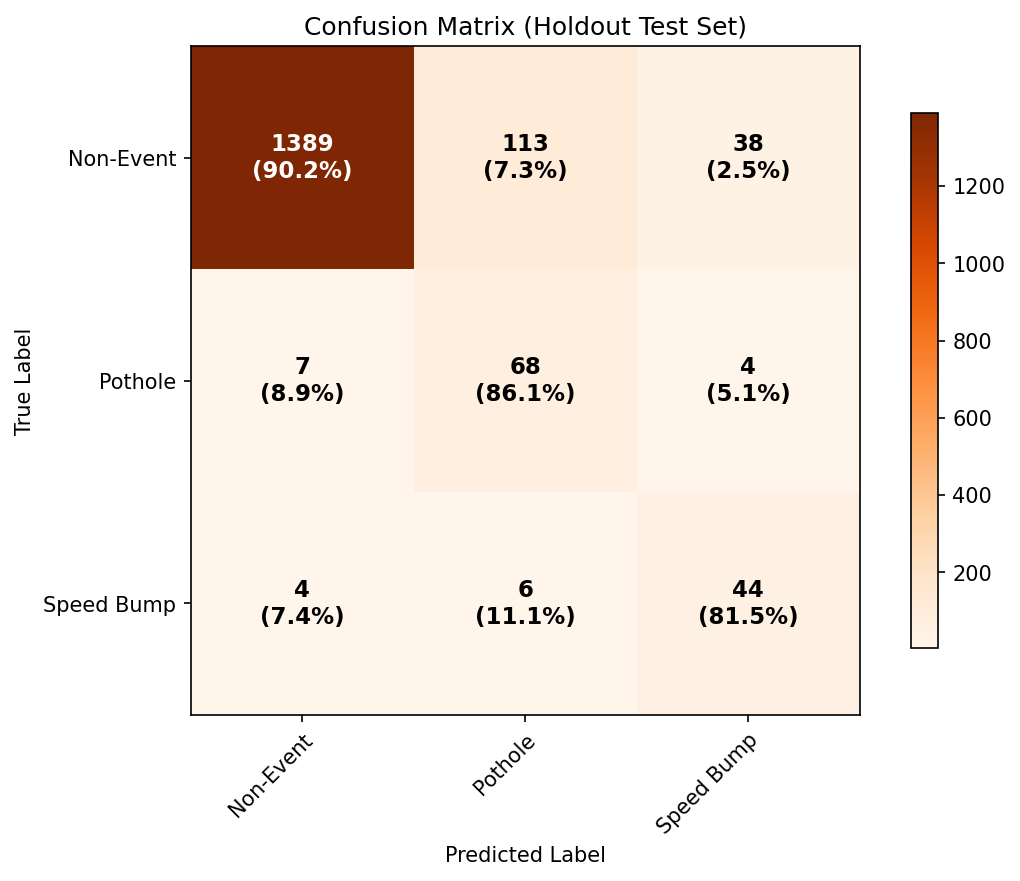
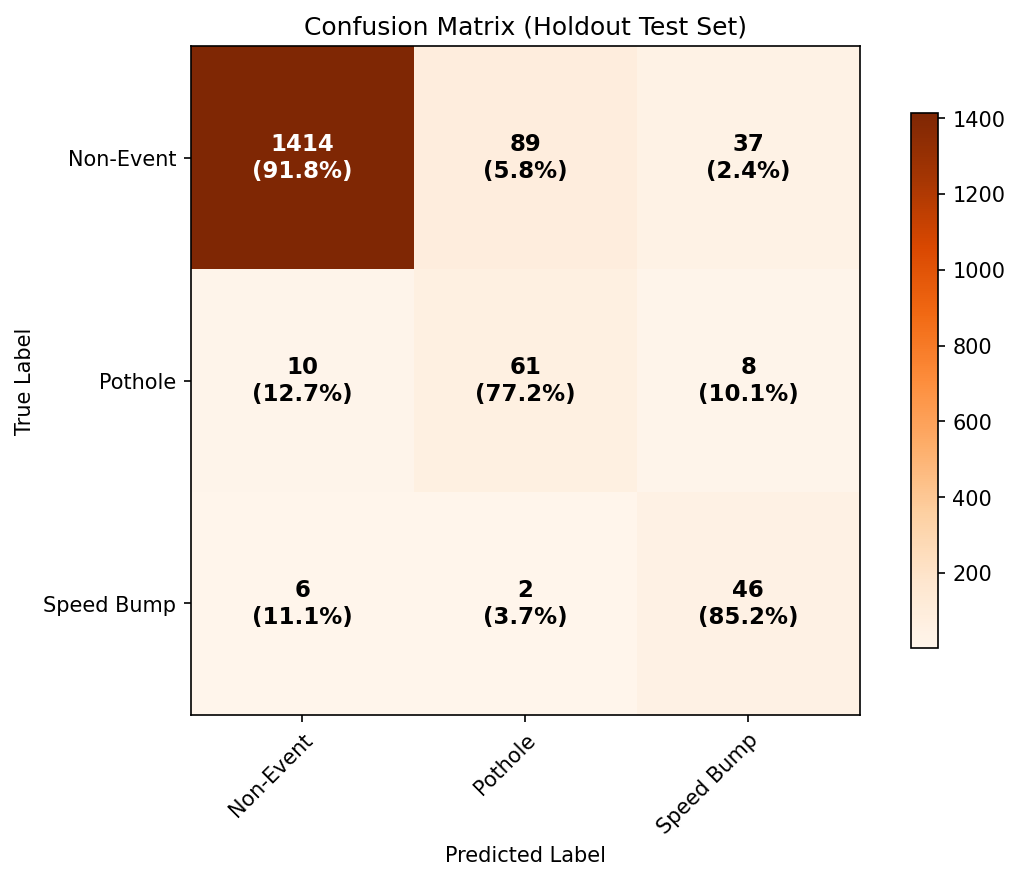
feat: update cnn model, data pipeline, and loss
Replace the existing Lightweight1DCNN model with InceptionTime1D architecture. Update input channel count from 14 to 18 to match the expanded feature set. Overhaul sequence processing to use extended sequence length and random cropping for data augmentation. Refactor the loss function to MultiLabelFocalLoss with BCEWithLogitsLoss and one-hot encoded targets. Update all supporting scripts and model initializations across the codebase.

diff --git a/src/cnn_model/train.py b/src/cnn_model/train.py
@@ -74,16 +74,17 @@ class DynamicJitterDataset(torch.utils.data.Dataset):
             is_majority = (y_val == self.non_event_idx)
             aug_multiplier = 0.05 if is_majority else 1.0
             
-            # 1. Temporal Jitter (shift entire signal)
-            if self.max_jitter > 0 and np.random.rand() < aug_multiplier:
-                shift = np.random.randint(-self.max_jitter, self.max_jitter + 1)
-                if shift != 0:
-                    x = torch.roll(x, shifts=shift, dims=-1)
-                    # Avoid wrap-around artifact by filling with boundary values
-                    if shift > 0:
-                        x[..., :shift] = x[..., shift:shift+1]
-                    else:
-                        x[..., shift:] = x[..., shift-1:shift]
+            # 1. Random Crop (Replaces padding-based temporal jitter)
+            # The input sequence is EXTENDED_SEQ_LEN (e.g. 230). We need to crop it down to SEQ_LEN (e.g. 200).
+            seq_len = 200
+            if x.shape[-1] > seq_len:
+                max_start_idx = x.shape[-1] - seq_len
+                start_idx = np.random.randint(0, max_start_idx + 1) if self.max_jitter > 0 and np.random.rand() < aug_multiplier else max_start_idx // 2
+                x = x[..., start_idx:start_idx + seq_len]
+            elif x.shape[-1] == seq_len:
+                pass
+            else:
+                raise ValueError(f"Input sequence length {x.shape[-1]} is shorter than target length {seq_len}")
             
             # 2. Time Warping (non-linear temporal deformation)
             # Simulates variable vehicle speed by warping the time axis
@@ -133,6 +134,13 @@ class DynamicJitterDataset(torch.utils.data.Dataset):
                 drop_idx = np.random.randint(0, n_channels)
                 x[drop_idx, :] = 0.0
                 
+        else:
+            # During evaluation, strictly use center crop
+            seq_len = 200
+            if x.shape[-1] > seq_len:
+                start_idx = (x.shape[-1] - seq_len) // 2
+                x = x[..., start_idx:start_idx + seq_len]
+                
         return x, y_val
 
 def set_seed(seed=42):
@@ -145,20 +153,17 @@ def set_seed(seed=42):
         torch.backends.cudnn.deterministic = True
         torch.backends.cudnn.benchmark = False
 
-class FocalLoss(nn.Module):
+class MultiLabelFocalLoss(nn.Module):
     def __init__(self, weight=None, gamma=2.0, reduction='mean'):
-        super(FocalLoss, self).__init__()
+        super(MultiLabelFocalLoss, self).__init__()
         self.weight = weight
         self.gamma = gamma
         self.reduction = reduction
 
     def forward(self, inputs, targets):
-        ce_loss = nn.functional.cross_entropy(inputs, targets, reduction='none')
-        pt = torch.exp(-ce_loss)  # p_t = probability of correct class
-        focal_loss = ((1 - pt) ** self.gamma) * ce_loss
-
-        if self.weight is not None:
-            focal_loss = self.weight[targets] * focal_loss
+        bce_loss = nn.functional.binary_cross_entropy_with_logits(inputs, targets, reduction='none', pos_weight=self.weight)
+        pt = torch.exp(-bce_loss)  # probability of correct prediction
+        focal_loss = ((1 - pt) ** self.gamma) * bce_loss
 
         if self.reduction == 'mean':
             return focal_loss.mean()
@@ -302,27 +307,29 @@ def main():
         
         # ─── SMOTE Oversampling (Disabled for Experiment) ───
         X_train_np, y_train_np = X[train_idx], y[train_idx]
-        X_train_smote, y_train_smote = X_train_np, y_train_np
         
         if fold == 0:
             scaler_params = {
-                "means": [0.0] * 18,
-                "stds": [1.0] * 18
+                "means": [0.0] * X_train_np.shape[1],
+                "stds": [1.0] * X_train_np.shape[1]
             }
             scaler_path = os.path.join(MODEL_DIR, "scaler_params.json")
             with open(scaler_path, "w") as f:
                 json.dump(scaler_params, f, indent=4)
             logger.info(f"Saved dummy scaler parameters to {scaler_path}")
             
-        X_train_scaled = scale_instance_level(X_train_smote)
+        X_train_scaled = scale_instance_level(X_train_np)
         # Apply the SAME training means and stds to validation data
         X_val_np = X[val_idx]
         X_val_scaled = scale_instance_level(X_val_np)
         
         X_train = torch.tensor(X_train_scaled, dtype=torch.float32)
-        y_train = torch.tensor(y_train_smote, dtype=torch.long)
+        y_train = torch.tensor(y_train_np, dtype=torch.long)
+        y_train_one_hot = torch.nn.functional.one_hot(y_train, num_classes=len(classes)).float()
+        
         X_val = torch.tensor(X_val_scaled, dtype=torch.float32)
         y_val = torch.tensor(y[val_idx], dtype=torch.long)
+        y_val_one_hot = torch.nn.functional.one_hot(y_val, num_classes=len(classes)).float()
         
         # ─── Stratified Batch Loader ───
         train_dataset = DynamicJitterDataset(X_train, y_train, max_jitter=15,
@@ -333,16 +340,14 @@ def main():
         train_loader = DataLoader(train_dataset, batch_size=BATCH_SIZE, shuffle=True)
         val_loader = DataLoader(val_dataset, batch_size=BATCH_SIZE, shuffle=False)
         
-        # Dampened Class Weights (sqrt)
-        # Gunakan sqrt(balanced_weights) pada data hasil SMOTE untuk mencegah double-compensation
-        class_weights = compute_class_weight('balanced', classes=np.unique(y_train_smote), y=y_train_smote)
-        # class_weights = np.sqrt(class_weights)  # Dihapus karena SMOTE tidak digunakan
-        class_weights = class_weights / class_weights.sum() * len(class_weights)  # Re-normalize
+        # Dampened Class Weights
+        class_weights = compute_class_weight('balanced', classes=np.unique(y_train_np), y=y_train_np)
+        class_weights = class_weights / class_weights.sum() * len(class_weights)
         class_weights = torch.tensor(class_weights, dtype=torch.float32).to(device)
         
-        model = InceptionTime1D(in_channels=18, num_classes=len(classes),
+        model = InceptionTime1D(in_channels=X_train.shape[1], num_classes=len(classes),
                                num_blocks=2, channels=64, bottleneck_channels=16, dropout_rate=0.2).to(device)
-        criterion = FocalLoss(weight=class_weights, gamma=2.0)
+        criterion = MultiLabelFocalLoss(weight=class_weights, gamma=2.0)
         optimizer = torch.optim.Adam(model.parameters(), lr=LR, weight_decay=1e-4)
         scheduler = torch.optim.lr_scheduler.CosineAnnealingLR(optimizer, T_max=EPOCHS, eta_min=1e-6)
         
@@ -359,7 +364,11 @@ def main():
                 
                 optimizer.zero_grad()
                 outputs = model(batch_x)
-                loss = criterion(outputs, batch_y)
+                
+                # Gunakan versi one-hot untuk MultiLabelFocalLoss
+                batch_y_one_hot = torch.nn.functional.one_hot(batch_y, num_classes=len(classes)).float()
+                loss = criterion(outputs, batch_y_one_hot)
+                
                 loss.backward()
                 torch.nn.utils.clip_grad_norm_(model.parameters(), max_norm=1.0)
                 optimizer.step()
@@ -380,11 +389,15 @@ def main():
                 for batch_x, batch_y in val_loader:
                     batch_x, batch_y = batch_x.to(device), batch_y.to(device)
                     outputs = model(batch_x)
-                    loss = criterion(outputs, batch_y)
+                    
+                    batch_y_one_hot = torch.nn.functional.one_hot(batch_y, num_classes=len(classes)).float()
+                    loss = criterion(outputs, batch_y_one_hot)
+                    
                     val_loss += loss.item() * batch_x.size(0)
                     
-                    probs = torch.softmax(outputs, dim=1)
-                    _, preds = torch.max(probs, 1)
+                    # Gunakan Sigmoid untuk Multi-label
+                    probs = torch.sigmoid(outputs)
+                    _, preds = torch.max(probs, 1) # Default evaluation argmax
                     
                     val_preds.extend(preds.cpu().numpy())
                     val_probas.extend(probs.cpu().numpy())
@@ -439,7 +452,7 @@ def main():
             for batch_x, batch_y in val_loader:
                 batch_x = batch_x.to(device)
                 outputs = model(batch_x)
-                probs = torch.softmax(outputs, dim=1)
+                probs = torch.sigmoid(outputs)
                 _, preds = torch.max(probs, 1)
                 all_probas.extend(probs.cpu().numpy())
                 all_preds.extend(preds.cpu().numpy())
@@ -596,36 +609,37 @@ def main():
     np.save(os.path.join(MODEL_DIR, "cnn_1d_oof_y_proba.npy"), oof_y_proba)
     logger.info("OOF predictions disimpan untuk analisis ulang.")
     
-    # --- Train Final Model (SMOTE Disabled for Experiment) ---
-    X_full_smote, y_full_smote = X, y
+    # --- Train Final Model ---
+    X_full, y_full = X, y
     
-    # ─── Fit and Save Final Scaler (Dummy for Instance Scaling) ───
+    # ─── Fit and Save Final Scaler (Dynamic Length) ───
     final_scaler_params = {
-        "means": [0.0] * 14,
-        "stds": [1.0] * 14
+        "means": [0.0] * X_full.shape[1],
+        "stds": [1.0] * X_full.shape[1]
     }
     scaler_path = os.path.join(MODEL_DIR, "cnn_1d_scaler_params.json")
     with open(scaler_path, "w") as f:
         json.dump(final_scaler_params, f, indent=4)
     logger.info(f"Saved dummy final scaler parameters to {scaler_path}")
     
-    X_full_scaled = scale_instance_level(X_full_smote)
-    logger.info(f"Melatih final model dengan seluruh dataset (SMOTE & Scaled) sebanyak {optimal_epochs} epoch...")
+    X_full_scaled = scale_instance_level(X_full)
+    X_full_tensor = torch.tensor(X_full_scaled, dtype=torch.float32)
+    y_full_tensor = torch.tensor(y_full, dtype=torch.long)
     
-    X_full = torch.tensor(X_full_scaled, dtype=torch.float32)
-    y_full = torch.tensor(y_full_smote, dtype=torch.long)
-    full_dataset = DynamicJitterDataset(X_full, y_full, max_jitter=15,
+    logger.info(f"Melatih final model dengan seluruh dataset sebanyak {optimal_epochs} epoch...")
+    
+    full_dataset = DynamicJitterDataset(X_full_tensor, y_full_tensor, max_jitter=15,
                                          noise_std=0.02, scale_range=(0.85, 1.15), is_train=True, non_event_idx=non_event_idx)
     full_loader = DataLoader(full_dataset, batch_size=BATCH_SIZE, shuffle=True)
     
-    class_weights_full = compute_class_weight('balanced', classes=np.unique(y_full_smote), y=y_full_smote)
+    class_weights_full = compute_class_weight('balanced', classes=np.unique(y_full), y=y_full)
     # class_weights_full = np.sqrt(class_weights_full)  # Dihapus agar konsisten dengan cross-validation
     class_weights_full = class_weights_full / class_weights_full.sum() * len(class_weights_full)
     class_weights_full = torch.tensor(class_weights_full, dtype=torch.float32).to(device)
     
-    final_model = InceptionTime1D(in_channels=18, num_classes=len(classes),
+    final_model = InceptionTime1D(in_channels=X_full.shape[1], num_classes=len(classes),
                                  num_blocks=2, channels=64, bottleneck_channels=16, dropout_rate=0.2).to(device)
-    criterion_full = FocalLoss(weight=class_weights_full, gamma=2.0)
+    criterion_full = MultiLabelFocalLoss(weight=class_weights_full, gamma=2.0)
     optimizer_full = torch.optim.Adam(final_model.parameters(), lr=LR, weight_decay=1e-4)
     scheduler_full = torch.optim.lr_scheduler.CosineAnnealingLR(optimizer_full, T_max=optimal_epochs, eta_min=1e-6)
     
@@ -635,7 +649,10 @@ def main():
             batch_x, batch_y = batch_x.to(device), batch_y.to(device)
             optimizer_full.zero_grad()
             outputs = final_model(batch_x)
-            loss = criterion_full(outputs, batch_y)
+            
+            batch_y_one_hot = torch.nn.functional.one_hot(batch_y, num_classes=len(classes)).float()
+            loss = criterion_full(outputs, batch_y_one_hot)
+            
             loss.backward()
             torch.nn.utils.clip_grad_norm_(final_model.parameters(), max_norm=1.0)
             optimizer_full.step()
@@ -669,7 +686,7 @@ def main():
         for batch_x, batch_y in test_loader:
             batch_x = batch_x.to(device)
             outputs = final_model(batch_x)
-            probs = torch.softmax(outputs, dim=1)
+            probs = torch.sigmoid(outputs)
             test_probas.extend(probs.cpu().numpy())
             test_trues.extend(batch_y.numpy())
             
@@ -744,11 +761,11 @@ def main():
     # ─── ONNX EXPORT ───
     logger.info("Exporting final PyTorch model to ONNX format...")
     onnx_path = os.path.join(MODEL_DIR, "cnn_1d_model.onnx")
-    dummy_input = torch.randn(1, 18, 200, requires_grad=True).to(device)
-    model.eval()
+    dummy_input = torch.randn(1, X_full.shape[1], 200, requires_grad=True).to(device)
+    final_model.eval()
     try:
         torch.onnx.export(
-            model,
+            final_model,
             dummy_input,
             onnx_path,
             export_params=True,

diff --git a/src/dataset/build_cnn_data.py b/src/dataset/build_cnn_data.py
@@ -22,7 +22,9 @@ GT_PATH      = os.path.join(OUT_FOLDER, "ground_truth_labels.csv")
 EVENTS_PATH  = os.path.join(OUT_FOLDER, "candidates_events.csv")
 
 BACKGROUND_RATIO = 2 
+MAX_JITTER_SAMPLES = 15
 SEQ_LEN = int(WINDOW_SIZE_S * TARGET_HZ)  # 2.0 * 100 = 200
+EXTENDED_SEQ_LEN = SEQ_LEN + 2 * MAX_JITTER_SAMPLES # 230
 CHANNELS = [
     "a_vertical", "a_horizontal", "speed", 
     "a_vertical_crest_factor", "a_vertical_jerk",
@@ -135,36 +137,32 @@ def get_csv_path_for_trip(trip_id):
 
 def extract_sequence(raw_df, t_center):
     """
-    Memotong array (SEQ_LEN, 3) yang berpusat pada t_center.
-    Menggunakan interpolasi nearest jika sample tidak tepat 200.
+    Memotong array (EXTENDED_SEQ_LEN, C) yang berpusat pada t_center.
+    Menggunakan interpolasi nearest jika sample tidak tepat EXTENDED_SEQ_LEN.
     """
     times = raw_df["timestamp"].astype(float).values / 1000.0
     
     # Toleransi untuk mencari nearest indices
-    idx_start = np.searchsorted(times, t_center - (WINDOW_SIZE_S / 2.0))
-    idx_end = np.searchsorted(times, t_center + (WINDOW_SIZE_S / 2.0))
+    window_s = EXTENDED_SEQ_LEN / TARGET_HZ
+    idx_start = np.searchsorted(times, t_center - (window_s / 2.0))
+    idx_end = np.searchsorted(times, t_center + (window_s / 2.0))
     
     seg = raw_df.iloc[idx_start:idx_end]
     
-    # Jika kurang dari 200, pad atau ambil yang terdekat agar pas 200.
-    # Secara praktek, karena sudah di-resample 100Hz, biasanya ukurannya sekitar 200.
-    
-    seq = np.zeros((SEQ_LEN, len(CHANNELS)), dtype=np.float32)
+    seq = np.zeros((EXTENDED_SEQ_LEN, len(CHANNELS)), dtype=np.float32)
     
     if len(seg) > 0:
         data_arr = seg[CHANNELS].interpolate(method='linear').ffill().bfill().fillna(0.0).values
-        # Jika panjang lebih atau kurang dari SEQ_LEN, lakukan simple truncating / zero padding
-        # (Lebih baik: linear interpolation untuk array 1D)
-        if len(data_arr) == SEQ_LEN:
+        if len(data_arr) == EXTENDED_SEQ_LEN:
             seq = data_arr
-        elif len(data_arr) > SEQ_LEN:
+        elif len(data_arr) > EXTENDED_SEQ_LEN:
             # Truncate
-            start_truncate = (len(data_arr) - SEQ_LEN) // 2
-            seq = data_arr[start_truncate:start_truncate + SEQ_LEN]
+            start_truncate = (len(data_arr) - EXTENDED_SEQ_LEN) // 2
+            seq = data_arr[start_truncate:start_truncate + EXTENDED_SEQ_LEN]
         else:
             # Pad dengan copy elemen terakhir/pertama
-            pad_left = (SEQ_LEN - len(data_arr)) // 2
-            pad_right = SEQ_LEN - len(data_arr) - pad_left
+            pad_left = (EXTENDED_SEQ_LEN - len(data_arr)) // 2
+            pad_right = EXTENDED_SEQ_LEN - len(data_arr) - pad_left
             seq[pad_left:pad_left+len(data_arr)] = data_arr
             if pad_left > 0:
                 seq[:pad_left] = data_arr[0]

diff --git a/src/cnn_model/export_onnx.py b/src/cnn_model/export_onnx.py
@@ -7,7 +7,7 @@ import numpy as np
 sys.stdout.reconfigure(encoding='utf-8')
 sys.stderr.reconfigure(encoding='utf-8')
 
-from model import Lightweight1DCNN
+from model import InceptionTime1D
 
 import sys
 _PROJECT_ROOT = os.path.dirname(os.path.dirname(os.path.dirname(os.path.abspath(__file__))))
@@ -29,13 +29,13 @@ def main():
     classes = np.load(classes_path)
     
     # Initialize model
-    model = Lightweight1DCNN(in_channels=14, num_classes=len(classes),
-                             conv1_filters=32, conv2_filters=64, dropout_rate=0.169)
+    model = InceptionTime1D(in_channels=18, num_classes=len(classes),
+                            num_blocks=2, channels=64, bottleneck_channels=16, dropout_rate=0.2)
     model.load_state_dict(torch.load(pth_path, map_location='cpu'))
     model.eval()
     
-    # Dummy input (Batch_size=1, Channels=14, Length=200)
-    dummy_input = torch.randn(1, 14, 200, requires_grad=True)
+    # Dummy input (Batch_size=1, Channels=18, Length=200)
+    dummy_input = torch.randn(1, 18, 200, requires_grad=True)
     
     onnx_path = os.path.join(MODEL_DIR, "cnn_1d_model.onnx")
     

diff --git a/src/cnn_model/model.py b/src/cnn_model/model.py
@@ -40,7 +40,7 @@ class InceptionBlock1D(nn.Module):
         return self.relu(out)
 
 class InceptionTime1D(nn.Module):
-    def __init__(self, in_channels=14, num_classes=3, num_blocks=2, channels=64, bottleneck_channels=16, dropout_rate=0.2):
+    def __init__(self, in_channels=18, num_classes=3, num_blocks=2, channels=64, bottleneck_channels=16, dropout_rate=0.2):
         super(InceptionTime1D, self).__init__()
         
         self.blocks = nn.ModuleList()
@@ -90,6 +90,6 @@ if __name__ == "__main__":
     print(f"Total Parameters: {total_params}")
     
     # Test forward pass
-    dummy_input = torch.randn(2, 14, 200)
+    dummy_input = torch.randn(2, 18, 200)
     out = model(dummy_input)
     print(f"Input shape: {dummy_input.shape} -> Output shape: {out.shape}")
